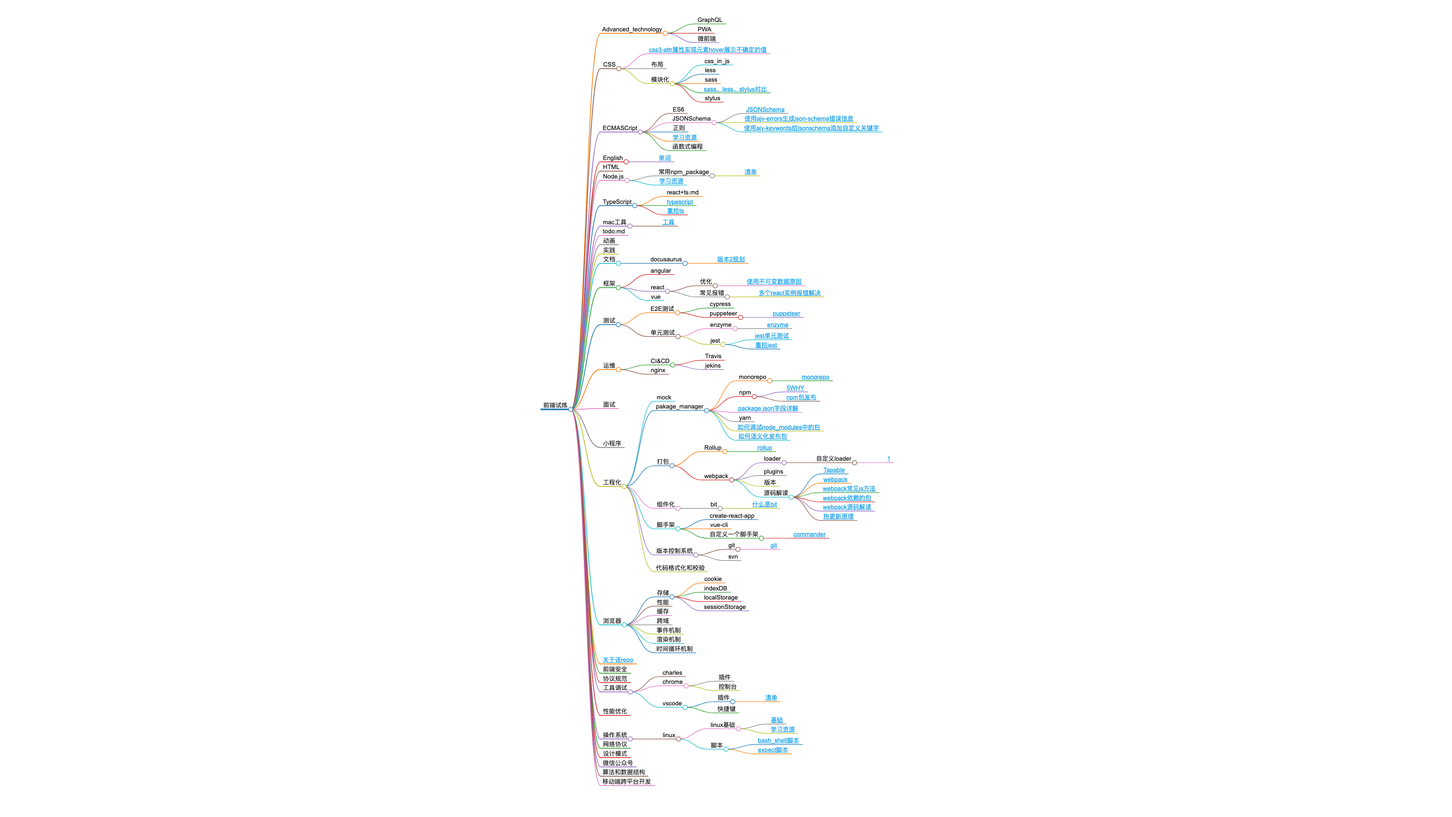
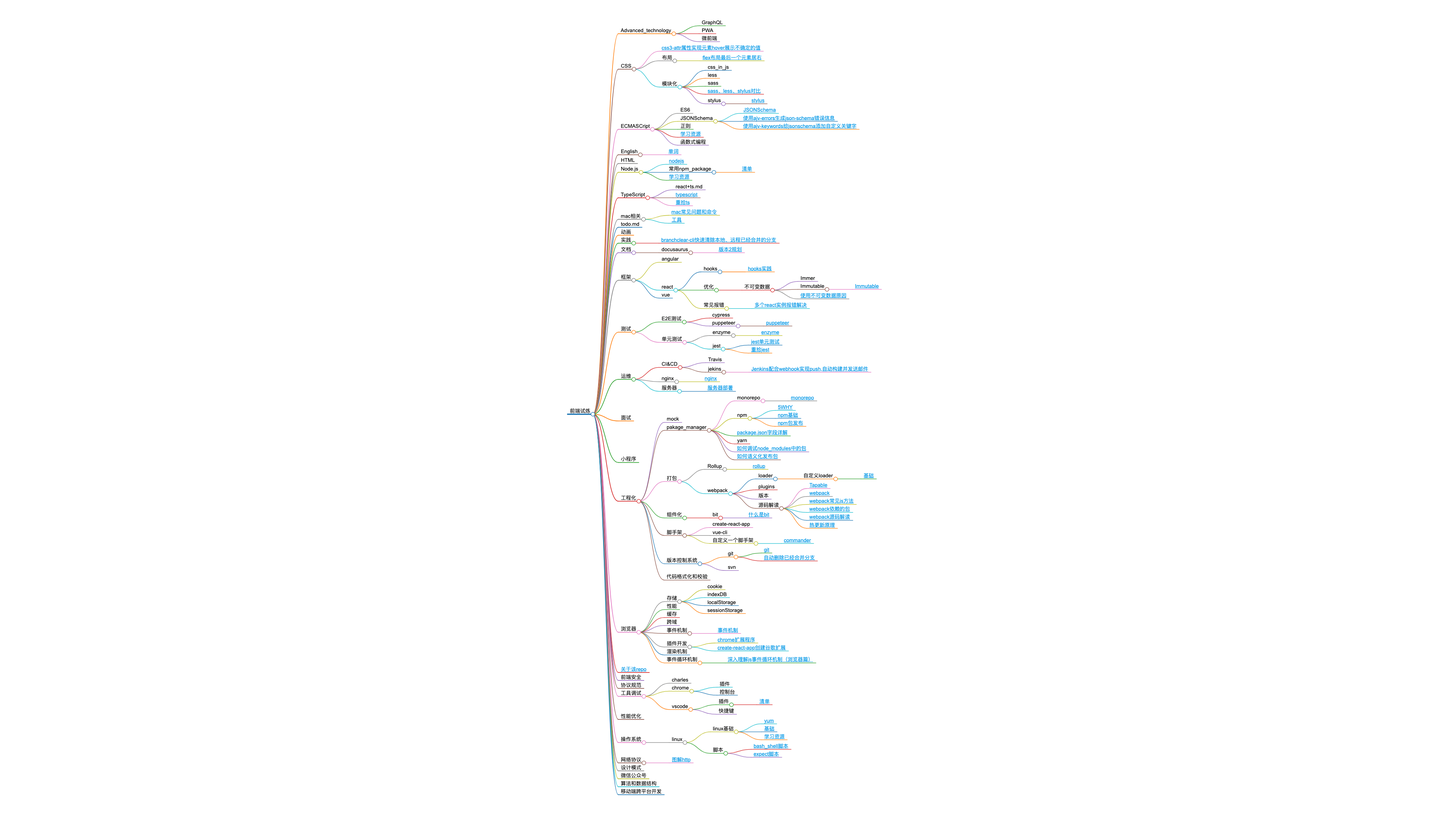
chore: updata思维导图

Changed region(s): [[0.375, 0.031, 0.5938, 0.9926]]

diff --git a/website/static/xmind.html b/website/static/xmind.html
@@ -28,6 +28,6 @@
         (init ? init(loadPlugins, items, opts) : Promise.resolve()).then(() => {
           window.mm = Markmap.create('svg#mindmap', null, data);
         });
-      })({"t":"heading","d":1,"v":"前端试炼","c":[{"t":"list_item","d":2,"v":"Advanced_technology","c":[{"t":"list_item","d":3,"v":"GraphQL"},{"t":"list_item","d":3,"v":"PWA"},{"t":"list_item","d":3,"v":"微前端"}]},{"t":"list_item","d":2,"v":"CSS","c":[{"t":"list_item","d":3,"v":"<a href=\"docs/CSS/0729c4e1a19b9e3b6904b91e63cbd435\" title=\"\" target=\"_blank\" rel=\"noopener noreferrer\">css3-attr属性实现元素hover展示不确定的值</a>"},{"t":"list_item","d":3,"v":"布局"},{"t":"list_item","d":3,"v":"模块化","c":[{"t":"list_item","d":4,"v":"css_in_js"},{"t":"list_item","d":4,"v":"less"},{"t":"list_item","d":4,"v":"sass"},{"t":"list_item","d":4,"v":"<a href=\"docs/CSS/模块化/98c70242585e1c8ac87207d342ab81e0\" title=\"\" target=\"_blank\" rel=\"noopener noreferrer\">sass、less、stylus对比</a>"},{"t":"list_item","d":4,"v":"stylus"}]}]},{"t":"list_item","d":2,"v":"ECMASCript","c":[{"t":"list_item","d":3,"v":"ES6"},{"t":"list_item","d":3,"v":"JSONSchema","c":[{"t":"list_item","d":4,"v":"<a href=\"docs/ECMASCript/JSONSchema/718deb34c13a2d51e3c2ba69f472fce9\" title=\"\" target=\"_blank\" rel=\"noopener noreferrer\">JSONSchema</a>"},{"t":"list_item","d":4,"v":"<a href=\"docs/ECMASCript/JSONSchema/f7964c8f9054ea24043d6089ad339147\" title=\"\" target=\"_blank\" rel=\"noopener noreferrer\">使用ajv-errors生成json-schema错误信息</a>"},{"t":"list_item","d":4,"v":"<a href=\"docs/ECMASCript/JSONSchema/5237e232cb7cb852580db82169fdcaeb\" title=\"\" target=\"_blank\" rel=\"noopener noreferrer\">使用ajv-keywords给jsonschema添加自定义关键字</a>"}]},{"t":"list_item","d":3,"v":"正则"},{"t":"list_item","d":3,"v":"<a href=\"docs/ECMASCript/b53484b1bcbe1911e09c68d510ac7d64\" title=\"\" target=\"_blank\" rel=\"noopener noreferrer\">学习资源</a>"},{"t":"list_item","d":3,"v":"函数式编程"}]},{"t":"list_item","d":2,"v":"English","c":[{"t":"list_item","d":3,"v":"<a href=\"docs/English/72a91cf59167d6c497b1e3057447af5a\" title=\"\" target=\"_blank\" rel=\"noopener noreferrer\">单词</a>"}]},{"t":"list_item","d":2,"v":"HTML"},{"t":"list_item","d":2,"v":"Node.js","c":[{"t":"list_item","d":3,"v":"常用npm_package","c":[{"t":"list_item","d":4,"v":"<a href=\"docs/Node.js/常用npm_package/67e99d6582cb0c3126c6e3f7cc9a7d66\" title=\"\" target=\"_blank\" rel=\"noopener noreferrer\">清单</a>"}]},{"t":"list_item","d":3,"v":"<a href=\"docs/ECMASCript/b53484b1bcbe1911e09c68d510ac7d64\" title=\"\" target=\"_blank\" rel=\"noopener noreferrer\">学习资源</a>"}]},{"t":"list_item","d":2,"v":"TypeScript","c":[{"t":"list_item","d":3,"v":"react+ts.md"},{"t":"list_item","d":3,"v":"<a href=\"docs/TypeScript/808567b84cc51ad515d4820e54f84e31\" title=\"\" target=\"_blank\" rel=\"noopener noreferrer\">typescript</a>"},{"t":"list_item","d":3,"v":"<a href=\"docs/TypeScript/b36f6376acc1abd98aab96ef91491d2b\" title=\"\" target=\"_blank\" rel=\"noopener noreferrer\">重拾ts</a>"}]},{"t":"list_item","d":2,"v":"mac工具","c":[{"t":"list_item","d":3,"v":"<a href=\"docs/mac工具/e4900cf2bab323e0782022384a85a741\" title=\"\" target=\"_blank\" rel=\"noopener noreferrer\">工具</a>"}]},{"t":"list_item","d":2,"v":"todo.md"},{"t":"list_item","d":2,"v":"动画"},{"t":"list_item","d":2,"v":"实践"},{"t":"list_item","d":2,"v":"文档","c":[{"t":"list_item","d":3,"v":"docusaurus","c":[{"t":"list_item","d":4,"v":"<a href=\"docs/文档/docusaurus/a7934b68b6234157a1af4087537d1e8b\" title=\"\" target=\"_blank\" rel=\"noopener noreferrer\">版本2规划</a>"}]}]},{"t":"list_item","d":2,"v":"框架","c":[{"t":"list_item","d":3,"v":"angular"},{"t":"list_item","d":3,"v":"react","c":[{"t":"list_item","d":4,"v":"优化","c":[{"t":"list_item","d":5,"v":"<a href=\"docs/框架/react/优化/9593bd0a7ccc4b28542a173a5db9e40d\" title=\"\" target=\"_blank\" rel=\"noopener noreferrer\">使用不可变数据原因</a>"}]},{"t":"list_item","d":4,"v":"常见报错","c":[{"t":"list_item","d":5,"v":"<a href=\"docs/框架/react/常见报错/7d0e60c89a5f550eadf89f5f22550bcc\" title=\"\" target=\"_blank\" rel=\"noopener noreferrer\">多个react实例报错解决</a>"}]}]},{"t":"list_item","d":3,"v":"vue"}]},{"t":"list_item","d":2,"v":"测试","c":[{"t":"list_item","d":3,"v":"E2E测试","c":[{"t":"list_item","d":4,"v":"cypress"},{"t":"list_item","d":4,"v":"puppeteer","c":[{"t":"list_item","d":5,"v":"<a href=\"docs/测试/E2E测试/puppeteer/179673e977b3c3f9ad055a4b4a1e4eff\" title=\"\" target=\"_blank\" rel=\"noopener noreferrer\">puppeteer</a>"}]}]},{"t":"list_item","d":3,"v":"单元测试","c":[{"t":"list_item","d":4,"v":"enzyme","c":[{"t":"list_item","d":5,"v":"<a href=\"docs/测试/单元测试/enzyme/ff68fd239a281351a53d6e0b62b17fe7\" title=\"\" target=\"_blank\" rel=\"noopener noreferrer\">enzyme</a>"}]},{"t":"list_item","d":4,"v":"jest","c":[{"t":"list_item","d":5,"v":"<a href=\"docs/测试/单元测试/jest/094b039468990ad513f1f8dd484d8dc2\" title=\"\" target=\"_blank\" rel=\"noopener noreferrer\">jest单元测试</a>"},{"t":"list_item","d":5,"v":"<a href=\"docs/测试/单元测试/jest/b1f6cee7ef1784df1f5f69a9c4a785da\" title=\"\" target=\"_blank\" rel=\"noopener noreferrer\">重拾jest</a>"}]}]}]},{"t":"list_item","d":2,"v":"运维","c":[{"t":"list_item","d":3,"v":"CI&amp;CD","c":[{"t":"list_item","d":4,"v":"Travis"},{"t":"list_item","d":4,"v":"jekins"}]},{"t":"list_item","d":3,"v":"nginx"}]},{"t":"list_item","d":2,"v":"面试"},{"t":"list_item","d":2,"v":"小程序"},{"t":"list_item","d":2,"v":"工程化","c":[{"t":"list_item","d":3,"v":"mock"},{"t":"list_item","d":3,"v":"pakage_manager","c":[{"t":"list_item","d":4,"v":"monorepo","c":[{"t":"list_item","d":5,"v":"<a href=\"docs/工程化/pakage_manager/monorepo/8f5278ed6bda43d57e7b77d4c5a243e6\" title=\"\" target=\"_blank\" rel=\"noopener noreferrer\">monorepo</a>"}]},{"t":"list_item","d":4,"v":"npm","c":[{"t":"list_item","d":5,"v":"<a href=\"docs/工程化/pakage_manager/npm/c7133389f53e8d534c388d5ce8b37459\" title=\"\" target=\"_blank\" rel=\"noopener noreferrer\">5WHY</a>"},{"t":"list_item","d":5,"v":"<a href=\"docs/工程化/pakage_manager/npm/ba56c3b18aefa148f9439f026ec3f973\" title=\"\" target=\"_blank\" rel=\"noopener noreferrer\">npm包发布</a>"}]},{"t":"list_item","d":4,"v":"<a href=\"docs/工程化/pakage_manager/38f14e8081af1e36ddd422fa9b4db94a\" title=\"\" target=\"_blank\" rel=\"noopener noreferrer\">package.json字段详解</a>"},{"t":"list_item","d":4,"v":"yarn"},{"t":"list_item","d":4,"v":"<a href=\"docs/工程化/pakage_manager/e6a07bea153f8b002ef8dc47f8bc1311\" title=\"\" target=\"_blank\" rel=\"noopener noreferrer\">如何调试node_modules中的包</a>"},{"t":"list_item","d":4,"v":"<a href=\"docs/工程化/pakage_manager/ec0f88d99c3ac3c6b5038c575ac4d1ce\" title=\"\" target=\"_blank\" rel=\"noopener noreferrer\">如何语义化发布包</a>"}]},{"t":"list_item","d":3,"v":"打包","c":[{"t":"list_item","d":4,"v":"Rollup","c":[{"t":"list_item","d":5,"v":"<a href=\"docs/工程化/打包/Rollup/4918d3072fb3da6be9ad6cfe54c020f3\" title=\"\" target=\"_blank\" rel=\"noopener noreferrer\">rollup</a>"}]},{"t":"list_item","d":4,"v":"webpack","c":[{"t":"list_item","d":5,"v":"loader","c":[{"t":"list_item","d":6,"v":"自定义loader","c":[{"t":"list_item","d":7,"v":"<a href=\"docs/工程化/打包/webpack/loader/自定义loader/c6093b78d3f332e1920b4067fa4121a9\" title=\"\" target=\"_blank\" rel=\"noopener noreferrer\">1</a>"}]}]},{"t":"list_item","d":5,"v":"plugins"},{"t":"list_item","d":5,"v":"版本"},{"t":"list_item","d":5,"v":"源码解读","c":[{"t":"list_item","d":6,"v":"<a href=\"docs/工程化/打包/webpack/源码解读/3044cf73a36f83e5344247f79ffb719e\" title=\"\" target=\"_blank\" rel=\"noopener noreferrer\">Tapable</a>"},{"t":"list_item","d":6,"v":"<a href=\"docs/工程化/打包/webpack/源码解读/8b9409a6ad189493556150ffca9a2079\" title=\"\" target=\"_blank\" rel=\"noopener noreferrer\">webpack</a>"},{"t":"list_item","d":6,"v":"<a href=\"docs/工程化/打包/webpack/源码解读/7cb10912f28c1696659c6131b517f27c\" title=\"\" target=\"_blank\" rel=\"noopener noreferrer\">webpack常见js方法</a>"},{"t":"list_item","d":6,"v":"<a href=\"docs/工程化/打包/webpack/源码解读/0889ebe5191ee49173a6c02e5d4ccd6f\" title=\"\" target=\"_blank\" rel=\"noopener noreferrer\">webpack依赖的包</a>"},{"t":"list_item","d":6,"v":"<a href=\"docs/工程化/打包/webpack/源码解读/80e8979bbebe30571bf98fea6d3b32d0\" title=\"\" target=\"_blank\" rel=\"noopener noreferrer\">webpack源码解读</a>"},{"t":"list_item","d":6,"v":"<a href=\"docs/工程化/打包/webpack/源码解读/768e191e2dc797ba437ddbf619dcf3b5\" title=\"\" target=\"_blank\" rel=\"noopener noreferrer\">热更新原理</a>"}]}]}]},{"t":"list_item","d":3,"v":"组件化","c":[{"t":"list_item","d":4,"v":"bit","c":[{"t":"list_item","d":5,"v":"<a href=\"docs/工程化/组件化/bit/a0d47b851468953d2c75ec36293fc240\" title=\"\" target=\"_blank\" rel=\"noopener noreferrer\">什么是bit</a>"}]}]},{"t":"list_item","d":3,"v":"脚手架","c":[{"t":"list_item","d":4,"v":"create-react-app"},{"t":"list_item","d":4,"v":"vue-cli"},{"t":"list_item","d":4,"v":"自定义一个脚手架","c":[{"t":"list_item","d":5,"v":"<a href=\"docs/工程化/脚手架/自定义一个脚手架/e1f3c1423014acd77d6282114faf6935\" title=\"\" target=\"_blank\" rel=\"noopener noreferrer\">commander</a>"}]}]},{"t":"list_item","d":3,"v":"版本控制系统","c":[{"t":"list_item","d":4,"v":"git","c":[{"t":"list_item","d":5,"v":"<a href=\"docs/工程化/版本控制系统/git/85735fc293ff4dbf3ef3e42201cb061d\" title=\"\" target=\"_blank\" rel=\"noopener noreferrer\">git</a>"}]},{"t":"list_item","d":4,"v":"svn"}]},{"t":"list_item","d":3,"v":"代码格式化和校验"}]},{"t":"list_item","d":2,"v":"浏览器","c":[{"t":"list_item","d":3,"v":"存储","c":[{"t":"list_item","d":4,"v":"cookie"},{"t":"list_item","d":4,"v":"indexDB"},{"t":"list_item","d":4,"v":"localStorage"},{"t":"list_item","d":4,"v":"sessionStorage"}]},{"t":"list_item","d":3,"v":"性能"},{"t":"list_item","d":3,"v":"缓存"},{"t":"list_item","d":3,"v":"跨域"},{"t":"list_item","d":3,"v":"事件机制"},{"t":"list_item","d":3,"v":"渲染机制"},{"t":"list_item","d":3,"v":"时间循环机制"}]},{"t":"list_item","d":2,"v":"<a href=\"docs/95a148348b289ba387509c05eb1c6af2\" title=\"\" target=\"_blank\" rel=\"noopener noreferrer\">关于该repo</a>"},{"t":"list_item","d":2,"v":"前端安全"},{"t":"list_item","d":2,"v":"协议规范"},{"t":"list_item","d":2,"v":"工具调试","c":[{"t":"list_item","d":3,"v":"charles"},{"t":"list_item","d":3,"v":"chrome","c":[{"t":"list_item","d":4,"v":"插件"},{"t":"list_item","d":4,"v":"控制台"}]},{"t":"list_item","d":3,"v":"vscode","c":[{"t":"list_item","d":4,"v":"插件","c":[{"t":"list_item","d":5,"v":"<a href=\"docs/Node.js/常用npm_package/67e99d6582cb0c3126c6e3f7cc9a7d66\" title=\"\" target=\"_blank\" rel=\"noopener noreferrer\">清单</a>"}]},{"t":"list_item","d":4,"v":"快捷键"}]}]},{"t":"list_item","d":2,"v":"性能优化"},{"t":"list_item","d":2,"v":"操作系统","c":[{"t":"list_item","d":3,"v":"linux","c":[{"t":"list_item","d":4,"v":"linux基础","c":[{"t":"list_item","d":5,"v":"<a href=\"docs/操作系统/linux/linux基础/585ed91706206035253631d51d62d7d1\" title=\"\" target=\"_blank\" rel=\"noopener noreferrer\">基础</a>"},{"t":"list_item","d":5,"v":"<a href=\"docs/ECMASCript/b53484b1bcbe1911e09c68d510ac7d64\" title=\"\" target=\"_blank\" rel=\"noopener noreferrer\">学习资源</a>"}]},{"t":"list_item","d":4,"v":"脚本","c":[{"t":"list_item","d":5,"v":"<a href=\"docs/操作系统/linux/脚本/5d8743a01675138db72310478b6c7f30\" title=\"\" target=\"_blank\" rel=\"noopener noreferrer\">bash_shell脚本</a>"},{"t":"list_item","d":5,"v":"<a href=\"docs/操作系统/linux/脚本/c89e3ed149c086944696ba0fe3a5ffde\" title=\"\" target=\"_blank\" rel=\"noopener noreferrer\">expect脚本</a>"}]}]}]},{"t":"list_item","d":2,"v":"网络协议"},{"t":"list_item","d":2,"v":"设计模式"},{"t":"list_item","d":2,"v":"微信公众号"},{"t":"list_item","d":2,"v":"算法和数据结构"},{"t":"list_item","d":2,"v":"移动端跨平台开发"}]},(loadPlugins, items, opts) => loadPlugins(items, opts),["prism"],{"prism":true})</script>
+      })({"t":"heading","d":1,"v":"前端试炼","c":[{"t":"list_item","d":2,"v":"Advanced_technology","c":[{"t":"list_item","d":3,"v":"GraphQL"},{"t":"list_item","d":3,"v":"PWA"},{"t":"list_item","d":3,"v":"微前端"}]},{"t":"list_item","d":2,"v":"CSS","c":[{"t":"list_item","d":3,"v":"<a href=\"docs/CSS/0729c4e1a19b9e3b6904b91e63cbd435\" title=\"\" target=\"_blank\" rel=\"noopener noreferrer\">css3-attr属性实现元素hover展示不确定的值</a>"},{"t":"list_item","d":3,"v":"布局","c":[{"t":"list_item","d":4,"v":"<a href=\"docs/CSS/布局/d894294d8c56ce41da5469f6ed173daf\" title=\"\" target=\"_blank\" rel=\"noopener noreferrer\">flex布局最后一个元素居右</a>"}]},{"t":"list_item","d":3,"v":"模块化","c":[{"t":"list_item","d":4,"v":"css_in_js"},{"t":"list_item","d":4,"v":"less"},{"t":"list_item","d":4,"v":"sass"},{"t":"list_item","d":4,"v":"<a href=\"docs/CSS/模块化/98c70242585e1c8ac87207d342ab81e0\" title=\"\" target=\"_blank\" rel=\"noopener noreferrer\">sass、less、stylus对比</a>"},{"t":"list_item","d":4,"v":"stylus","c":[{"t":"list_item","d":5,"v":"<a href=\"docs/CSS/模块化/stylus/1de4cb8a5702a6a347c89999bfa433d2\" title=\"\" target=\"_blank\" rel=\"noopener noreferrer\">stylus</a>"}]}]}]},{"t":"list_item","d":2,"v":"ECMASCript","c":[{"t":"list_item","d":3,"v":"ES6"},{"t":"list_item","d":3,"v":"JSONSchema","c":[{"t":"list_item","d":4,"v":"<a href=\"docs/ECMASCript/JSONSchema/718deb34c13a2d51e3c2ba69f472fce9\" title=\"\" target=\"_blank\" rel=\"noopener noreferrer\">JSONSchema</a>"},{"t":"list_item","d":4,"v":"<a href=\"docs/ECMASCript/JSONSchema/f7964c8f9054ea24043d6089ad339147\" title=\"\" target=\"_blank\" rel=\"noopener noreferrer\">使用ajv-errors生成json-schema错误信息</a>"},{"t":"list_item","d":4,"v":"<a href=\"docs/ECMASCript/JSONSchema/5237e232cb7cb852580db82169fdcaeb\" title=\"\" target=\"_blank\" rel=\"noopener noreferrer\">使用ajv-keywords给jsonschema添加自定义关键字</a>"}]},{"t":"list_item","d":3,"v":"正则"},{"t":"list_item","d":3,"v":"<a href=\"docs/ECMASCript/b53484b1bcbe1911e09c68d510ac7d64\" title=\"\" target=\"_blank\" rel=\"noopener noreferrer\">学习资源</a>"},{"t":"list_item","d":3,"v":"函数式编程"}]},{"t":"list_item","d":2,"v":"English","c":[{"t":"list_item","d":3,"v":"<a href=\"docs/English/72a91cf59167d6c497b1e3057447af5a\" title=\"\" target=\"_blank\" rel=\"noopener noreferrer\">单词</a>"}]},{"t":"list_item","d":2,"v":"HTML"},{"t":"list_item","d":2,"v":"Node.js","c":[{"t":"list_item","d":3,"v":"<a href=\"docs/Node.js/2e274f275e0613b306c487b358d94ab7\" title=\"\" target=\"_blank\" rel=\"noopener noreferrer\">nodejs</a>"},{"t":"list_item","d":3,"v":"常用npm_package","c":[{"t":"list_item","d":4,"v":"<a href=\"docs/Node.js/常用npm_package/67e99d6582cb0c3126c6e3f7cc9a7d66\" title=\"\" target=\"_blank\" rel=\"noopener noreferrer\">清单</a>"}]},{"t":"list_item","d":3,"v":"<a href=\"docs/ECMASCript/b53484b1bcbe1911e09c68d510ac7d64\" title=\"\" target=\"_blank\" rel=\"noopener noreferrer\">学习资源</a>"}]},{"t":"list_item","d":2,"v":"TypeScript","c":[{"t":"list_item","d":3,"v":"react+ts.md"},{"t":"list_item","d":3,"v":"<a href=\"docs/TypeScript/808567b84cc51ad515d4820e54f84e31\" title=\"\" target=\"_blank\" rel=\"noopener noreferrer\">typescript</a>"},{"t":"list_item","d":3,"v":"<a href=\"docs/TypeScript/b36f6376acc1abd98aab96ef91491d2b\" title=\"\" target=\"_blank\" rel=\"noopener noreferrer\">重拾ts</a>"}]},{"t":"list_item","d":2,"v":"mac相关","c":[{"t":"list_item","d":3,"v":"<a href=\"docs/mac相关/a44fd8dd59298708f41334a88822b962\" title=\"\" target=\"_blank\" rel=\"noopener noreferrer\">mac常见问题和命令</a>"},{"t":"list_item","d":3,"v":"<a href=\"docs/mac相关/2b9f15fd56b0c6b3cd5a33c28fc68157\" title=\"\" target=\"_blank\" rel=\"noopener noreferrer\">工具</a>"}]},{"t":"list_item","d":2,"v":"todo.md"},{"t":"list_item","d":2,"v":"动画"},{"t":"list_item","d":2,"v":"实践","c":[{"t":"list_item","d":3,"v":"<a href=\"docs/实践/626060a4af5e1540907d7bcd2416544c\" title=\"\" target=\"_blank\" rel=\"noopener noreferrer\">branchclear-cli快速清除本地、远程已经合并的分支</a>"}]},{"t":"list_item","d":2,"v":"文档","c":[{"t":"list_item","d":3,"v":"docusaurus","c":[{"t":"list_item","d":4,"v":"<a href=\"docs/文档/docusaurus/a7934b68b6234157a1af4087537d1e8b\" title=\"\" target=\"_blank\" rel=\"noopener noreferrer\">版本2规划</a>"}]}]},{"t":"list_item","d":2,"v":"框架","c":[{"t":"list_item","d":3,"v":"angular"},{"t":"list_item","d":3,"v":"react","c":[{"t":"list_item","d":4,"v":"hooks","c":[{"t":"list_item","d":5,"v":"<a href=\"docs/框架/react/hooks/cc79a47e7d739125f1566a487e26fb99\" title=\"\" target=\"_blank\" rel=\"noopener noreferrer\">hooks实践</a>"}]},{"t":"list_item","d":4,"v":"优化","c":[{"t":"list_item","d":5,"v":"不可变数据","c":[{"t":"list_item","d":6,"v":"Immer"},{"t":"list_item","d":6,"v":"Immutable","c":[{"t":"list_item","d":7,"v":"<a href=\"docs/框架/react/优化/不可变数据/Immutable/1d3d9edc29eec0f35eaf85c9e8d5b659\" title=\"\" target=\"_blank\" rel=\"noopener noreferrer\">Immutable</a>"}]},{"t":"list_item","d":6,"v":"<a href=\"docs/框架/react/优化/不可变数据/7f536cb00c3fdc6439f768fb47f7a59e\" title=\"\" target=\"_blank\" rel=\"noopener noreferrer\">使用不可变数据原因</a>"}]}]},{"t":"list_item","d":4,"v":"常见报错","c":[{"t":"list_item","d":5,"v":"<a href=\"docs/框架/react/常见报错/7d0e60c89a5f550eadf89f5f22550bcc\" title=\"\" target=\"_blank\" rel=\"noopener noreferrer\">多个react实例报错解决</a>"}]}]},{"t":"list_item","d":3,"v":"vue"}]},{"t":"list_item","d":2,"v":"测试","c":[{"t":"list_item","d":3,"v":"E2E测试","c":[{"t":"list_item","d":4,"v":"cypress"},{"t":"list_item","d":4,"v":"puppeteer","c":[{"t":"list_item","d":5,"v":"<a href=\"docs/测试/E2E测试/puppeteer/179673e977b3c3f9ad055a4b4a1e4eff\" title=\"\" target=\"_blank\" rel=\"noopener noreferrer\">puppeteer</a>"}]}]},{"t":"list_item","d":3,"v":"单元测试","c":[{"t":"list_item","d":4,"v":"enzyme","c":[{"t":"list_item","d":5,"v":"<a href=\"docs/测试/单元测试/enzyme/ff68fd239a281351a53d6e0b62b17fe7\" title=\"\" target=\"_blank\" rel=\"noopener noreferrer\">enzyme</a>"}]},{"t":"list_item","d":4,"v":"jest","c":[{"t":"list_item","d":5,"v":"<a href=\"docs/测试/单元测试/jest/094b039468990ad513f1f8dd484d8dc2\" title=\"\" target=\"_blank\" rel=\"noopener noreferrer\">jest单元测试</a>"},{"t":"list_item","d":5,"v":"<a href=\"docs/测试/单元测试/jest/b1f6cee7ef1784df1f5f69a9c4a785da\" title=\"\" target=\"_blank\" rel=\"noopener noreferrer\">重拾jest</a>"}]}]}]},{"t":"list_item","d":2,"v":"运维","c":[{"t":"list_item","d":3,"v":"CI&amp;CD","c":[{"t":"list_item","d":4,"v":"Travis"},{"t":"list_item","d":4,"v":"jekins","c":[{"t":"list_item","d":5,"v":"<a href=\"docs/运维/CI&amp;CD/jekins/d945d19c0ddc3f3d3fd73e4e1dabfcf1\" title=\"\" target=\"_blank\" rel=\"noopener noreferrer\">Jenkins配合webhook实现push,自动构建并发送邮件</a>"}]}]},{"t":"list_item","d":3,"v":"nginx","c":[{"t":"list_item","d":4,"v":"<a href=\"docs/运维/nginx/df1da39a6e72280164ae3ce63cb1fc4a\" title=\"\" target=\"_blank\" rel=\"noopener noreferrer\">nginx</a>"}]},{"t":"list_item","d":3,"v":"服务器","c":[{"t":"list_item","d":4,"v":"<a href=\"docs/运维/服务器/08c9e14f9b32a6e0c3ce858267d3e639\" title=\"\" target=\"_blank\" rel=\"noopener noreferrer\">服务器部署</a>"}]}]},{"t":"list_item","d":2,"v":"面试"},{"t":"list_item","d":2,"v":"小程序"},{"t":"list_item","d":2,"v":"工程化","c":[{"t":"list_item","d":3,"v":"mock"},{"t":"list_item","d":3,"v":"pakage_manager","c":[{"t":"list_item","d":4,"v":"monorepo","c":[{"t":"list_item","d":5,"v":"<a href=\"docs/工程化/pakage_manager/monorepo/8f5278ed6bda43d57e7b77d4c5a243e6\" title=\"\" target=\"_blank\" rel=\"noopener noreferrer\">monorepo</a>"}]},{"t":"list_item","d":4,"v":"npm","c":[{"t":"list_item","d":5,"v":"<a href=\"docs/工程化/pakage_manager/npm/c7133389f53e8d534c388d5ce8b37459\" title=\"\" target=\"_blank\" rel=\"noopener noreferrer\">5WHY</a>"},{"t":"list_item","d":5,"v":"<a href=\"docs/工程化/pakage_manager/npm/4bc8b6d9c0d959fc89304c7b6ca759d2\" title=\"\" target=\"_blank\" rel=\"noopener noreferrer\">npm基础</a>"},{"t":"list_item","d":5,"v":"<a href=\"docs/工程化/pakage_manager/npm/ba56c3b18aefa148f9439f026ec3f973\" title=\"\" target=\"_blank\" rel=\"noopener noreferrer\">npm包发布</a>"}]},{"t":"list_item","d":4,"v":"<a href=\"docs/工程化/pakage_manager/38f14e8081af1e36ddd422fa9b4db94a\" title=\"\" target=\"_blank\" rel=\"noopener noreferrer\">package.json字段详解</a>"},{"t":"list_item","d":4,"v":"yarn"},{"t":"list_item","d":4,"v":"<a href=\"docs/工程化/pakage_manager/e6a07bea153f8b002ef8dc47f8bc1311\" title=\"\" target=\"_blank\" rel=\"noopener noreferrer\">如何调试node_modules中的包</a>"},{"t":"list_item","d":4,"v":"<a href=\"docs/工程化/pakage_manager/ec0f88d99c3ac3c6b5038c575ac4d1ce\" title=\"\" target=\"_blank\" rel=\"noopener noreferrer\">如何语义化发布包</a>"}]},{"t":"list_item","d":3,"v":"打包","c":[{"t":"list_item","d":4,"v":"Rollup","c":[{"t":"list_item","d":5,"v":"<a href=\"docs/工程化/打包/Rollup/4918d3072fb3da6be9ad6cfe54c020f3\" title=\"\" target=\"_blank\" rel=\"noopener noreferrer\">rollup</a>"}]},{"t":"list_item","d":4,"v":"webpack","c":[{"t":"list_item","d":5,"v":"loader","c":[{"t":"list_item","d":6,"v":"自定义loader","c":[{"t":"list_item","d":7,"v":"<a href=\"docs/工程化/打包/webpack/loader/自定义loader/9b68a2b86fd6b41392413eebbe754257\" title=\"\" target=\"_blank\" rel=\"noopener noreferrer\">基础</a>"}]}]},{"t":"list_item","d":5,"v":"plugins"},{"t":"list_item","d":5,"v":"版本"},{"t":"list_item","d":5,"v":"源码解读","c":[{"t":"list_item","d":6,"v":"<a href=\"docs/工程化/打包/webpack/源码解读/3044cf73a36f83e5344247f79ffb719e\" title=\"\" target=\"_blank\" rel=\"noopener noreferrer\">Tapable</a>"},{"t":"list_item","d":6,"v":"<a href=\"docs/工程化/打包/webpack/源码解读/8b9409a6ad189493556150ffca9a2079\" title=\"\" target=\"_blank\" rel=\"noopener noreferrer\">webpack</a>"},{"t":"list_item","d":6,"v":"<a href=\"docs/工程化/打包/webpack/源码解读/7cb10912f28c1696659c6131b517f27c\" title=\"\" target=\"_blank\" rel=\"noopener noreferrer\">webpack常见js方法</a>"},{"t":"list_item","d":6,"v":"<a href=\"docs/工程化/打包/webpack/源码解读/0889ebe5191ee49173a6c02e5d4ccd6f\" title=\"\" target=\"_blank\" rel=\"noopener noreferrer\">webpack依赖的包</a>"},{"t":"list_item","d":6,"v":"<a href=\"docs/工程化/打包/webpack/源码解读/80e8979bbebe30571bf98fea6d3b32d0\" title=\"\" target=\"_blank\" rel=\"noopener noreferrer\">webpack源码解读</a>"},{"t":"list_item","d":6,"v":"<a href=\"docs/工程化/打包/webpack/源码解读/768e191e2dc797ba437ddbf619dcf3b5\" title=\"\" target=\"_blank\" rel=\"noopener noreferrer\">热更新原理</a>"}]}]}]},{"t":"list_item","d":3,"v":"组件化","c":[{"t":"list_item","d":4,"v":"bit","c":[{"t":"list_item","d":5,"v":"<a href=\"docs/工程化/组件化/bit/a0d47b851468953d2c75ec36293fc240\" title=\"\" target=\"_blank\" rel=\"noopener noreferrer\">什么是bit</a>"}]}]},{"t":"list_item","d":3,"v":"脚手架","c":[{"t":"list_item","d":4,"v":"create-react-app"},{"t":"list_item","d":4,"v":"vue-cli"},{"t":"list_item","d":4,"v":"自定义一个脚手架","c":[{"t":"list_item","d":5,"v":"<a href=\"docs/工程化/脚手架/自定义一个脚手架/e1f3c1423014acd77d6282114faf6935\" title=\"\" target=\"_blank\" rel=\"noopener noreferrer\">commander</a>"}]}]},{"t":"list_item","d":3,"v":"版本控制系统","c":[{"t":"list_item","d":4,"v":"git","c":[{"t":"list_item","d":5,"v":"<a href=\"docs/工程化/版本控制系统/git/85735fc293ff4dbf3ef3e42201cb061d\" title=\"\" target=\"_blank\" rel=\"noopener noreferrer\">git</a>"},{"t":"list_item","d":5,"v":"<a href=\"docs/工程化/版本控制系统/git/7ee6448a4e193516af12ff819b930f2f\" title=\"\" target=\"_blank\" rel=\"noopener noreferrer\">自动删除已经合并分支</a>"}]},{"t":"list_item","d":4,"v":"svn"}]},{"t":"list_item","d":3,"v":"代码格式化和校验"}]},{"t":"list_item","d":2,"v":"浏览器","c":[{"t":"list_item","d":3,"v":"存储","c":[{"t":"list_item","d":4,"v":"cookie"},{"t":"list_item","d":4,"v":"indexDB"},{"t":"list_item","d":4,"v":"localStorage"},{"t":"list_item","d":4,"v":"sessionStorage"}]},{"t":"list_item","d":3,"v":"性能"},{"t":"list_item","d":3,"v":"缓存"},{"t":"list_item","d":3,"v":"跨域"},{"t":"list_item","d":3,"v":"事件机制","c":[{"t":"list_item","d":4,"v":"<a href=\"docs/浏览器/事件机制/7af5dc889f753bd70e5f7ef171c7060f\" title=\"\" target=\"_blank\" rel=\"noopener noreferrer\">事件机制</a>"}]},{"t":"list_item","d":3,"v":"插件开发","c":[{"t":"list_item","d":4,"v":"<a href=\"docs/浏览器/插件开发/2c4c0445df023db773d193c34210f844\" title=\"\" target=\"_blank\" rel=\"noopener noreferrer\">chrome扩展程序</a>"},{"t":"list_item","d":4,"v":"<a href=\"docs/浏览器/插件开发/bfe71b448da24918198c18263f04233a\" title=\"\" target=\"_blank\" rel=\"noopener noreferrer\">create-react-app创建谷歌扩展</a>"}]},{"t":"list_item","d":3,"v":"渲染机制"},{"t":"list_item","d":3,"v":"事件循环机制","c":[{"t":"list_item","d":4,"v":"<a href=\"docs/浏览器/事件循环机制/dc678db259507b0c4aeb94631e2dc8a7\" title=\"\" target=\"_blank\" rel=\"noopener noreferrer\">深入理解js事件循环机制（浏览器篇）</a>"}]}]},{"t":"list_item","d":2,"v":"<a href=\"docs/95a148348b289ba387509c05eb1c6af2\" title=\"\" target=\"_blank\" rel=\"noopener noreferrer\">关于该repo</a>"},{"t":"list_item","d":2,"v":"前端安全"},{"t":"list_item","d":2,"v":"协议规范"},{"t":"list_item","d":2,"v":"工具调试","c":[{"t":"list_item","d":3,"v":"charles"},{"t":"list_item","d":3,"v":"chrome","c":[{"t":"list_item","d":4,"v":"插件"},{"t":"list_item","d":4,"v":"控制台"}]},{"t":"list_item","d":3,"v":"vscode","c":[{"t":"list_item","d":4,"v":"插件","c":[{"t":"list_item","d":5,"v":"<a href=\"docs/Node.js/常用npm_package/67e99d6582cb0c3126c6e3f7cc9a7d66\" title=\"\" target=\"_blank\" rel=\"noopener noreferrer\">清单</a>"}]},{"t":"list_item","d":4,"v":"快捷键"}]}]},{"t":"list_item","d":2,"v":"性能优化"},{"t":"list_item","d":2,"v":"操作系统","c":[{"t":"list_item","d":3,"v":"linux","c":[{"t":"list_item","d":4,"v":"linux基础","c":[{"t":"list_item","d":5,"v":"<a href=\"docs/操作系统/linux/linux基础/760bccd78d82b9e52641e9273b7baad5\" title=\"\" target=\"_blank\" rel=\"noopener noreferrer\">yum</a>"},{"t":"list_item","d":5,"v":"<a href=\"docs/工程化/打包/webpack/loader/自定义loader/9b68a2b86fd6b41392413eebbe754257\" title=\"\" target=\"_blank\" rel=\"noopener noreferrer\">基础</a>"},{"t":"list_item","d":5,"v":"<a href=\"docs/ECMASCript/b53484b1bcbe1911e09c68d510ac7d64\" title=\"\" target=\"_blank\" rel=\"noopener noreferrer\">学习资源</a>"}]},{"t":"list_item","d":4,"v":"脚本","c":[{"t":"list_item","d":5,"v":"<a href=\"docs/操作系统/linux/脚本/5d8743a01675138db72310478b6c7f30\" title=\"\" target=\"_blank\" rel=\"noopener noreferrer\">bash_shell脚本</a>"},{"t":"list_item","d":5,"v":"<a href=\"docs/操作系统/linux/脚本/c89e3ed149c086944696ba0fe3a5ffde\" title=\"\" target=\"_blank\" rel=\"noopener noreferrer\">expect脚本</a>"}]}]}]},{"t":"list_item","d":2,"v":"网络协议","c":[{"t":"list_item","d":3,"v":"<a href=\"docs/网络协议/a7785cd0374e6044ab0a1c64fbbc81fa\" title=\"\" target=\"_blank\" rel=\"noopener noreferrer\">图解http</a>"}]},{"t":"list_item","d":2,"v":"设计模式"},{"t":"list_item","d":2,"v":"微信公众号"},{"t":"list_item","d":2,"v":"算法和数据结构"},{"t":"list_item","d":2,"v":"移动端跨平台开发"}]},(loadPlugins, items, opts) => loadPlugins(items, opts),["prism"],{"prism":true})</script>
 </body>
 </html>
